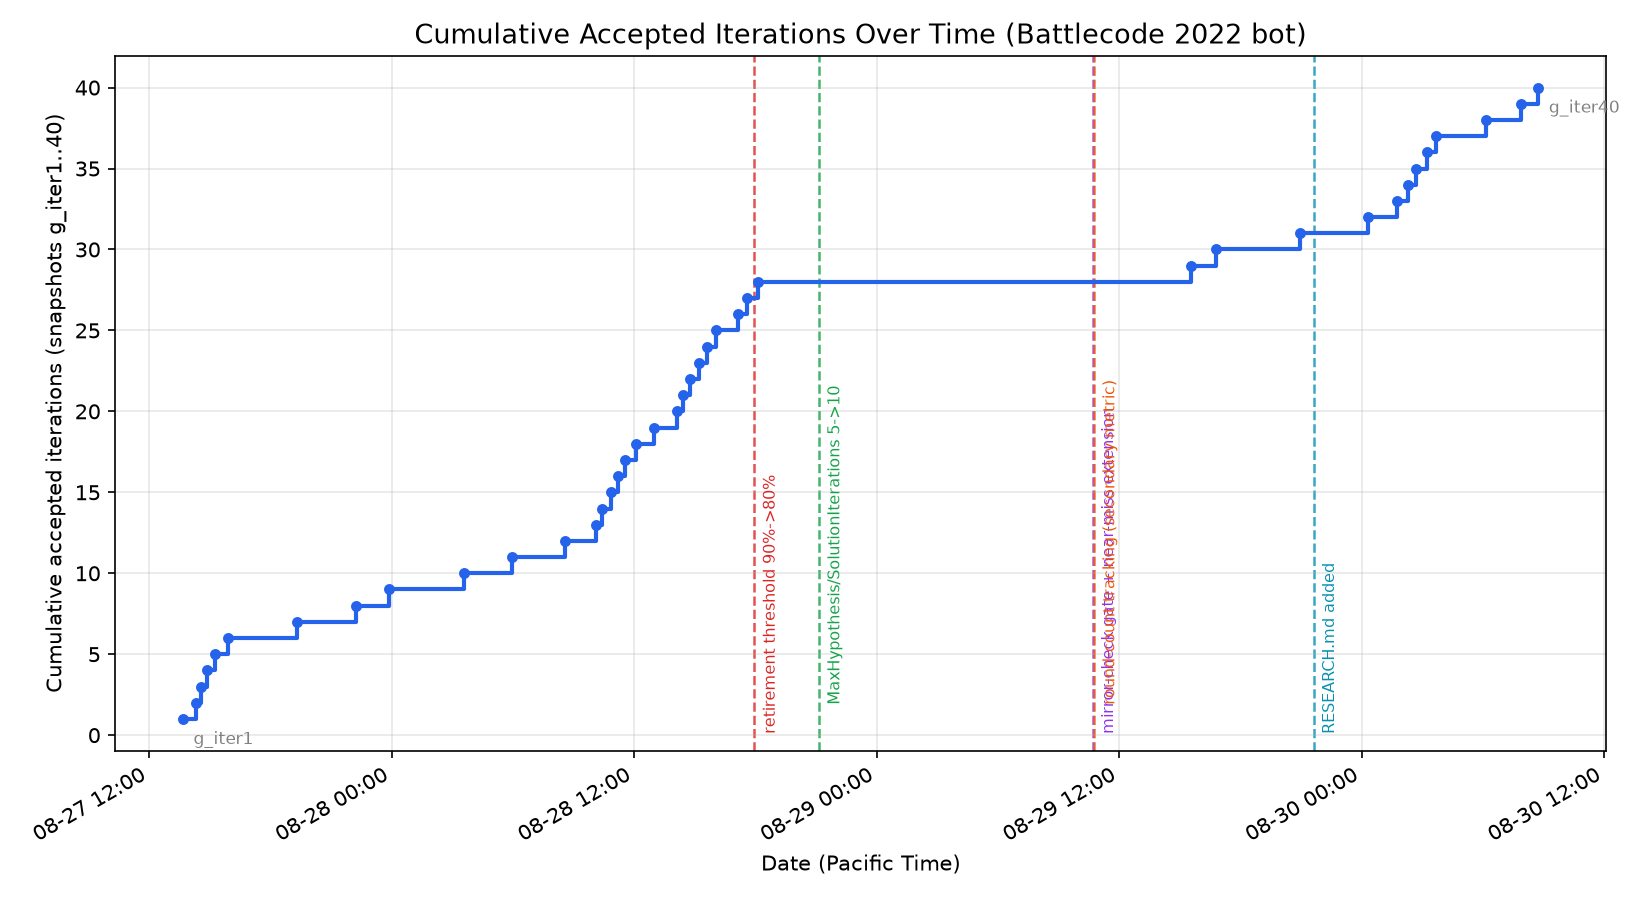
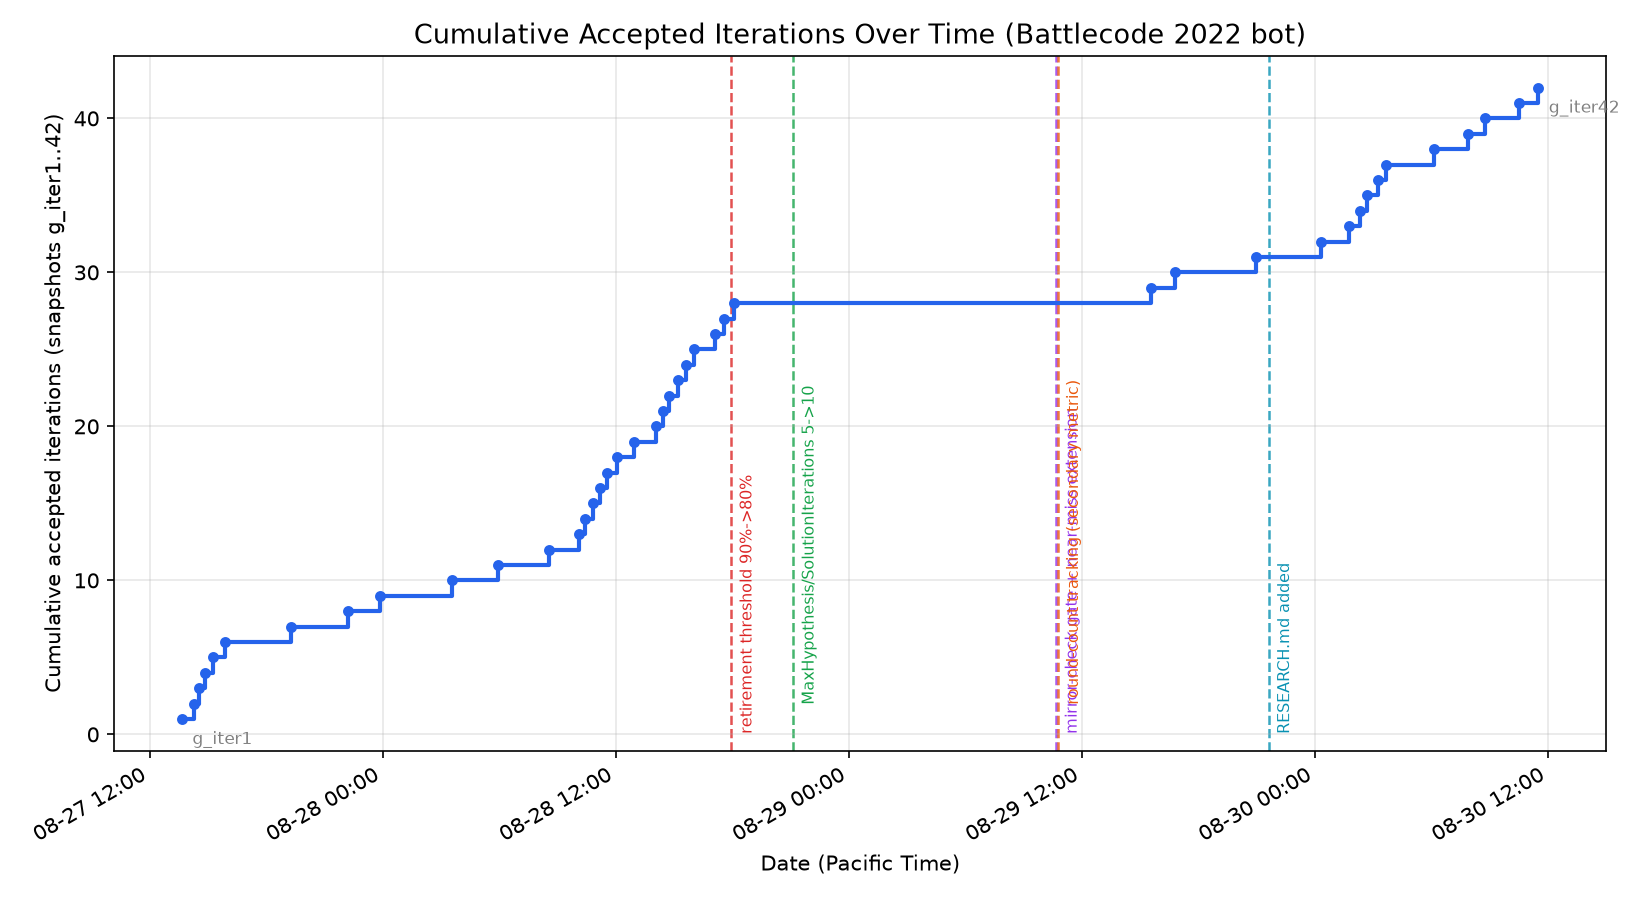
Refresh progress chart: 42 accepted iterations (g_iter42), 5 new since last update

diff --git a/TRAINING_LOG.md b/TRAINING_LOG.md
@@ -7453,7 +7453,7 @@ bookkeeping needed). Updated periodically, not every iteration.
 
 ![cumulative accepted iterations](progress/cumulative_iterations.png)
 
-As of `g_iter40`: 40 accepted iterations (of 92 attempted) spanning
+As of `g_iter42`: 42 accepted iterations (of 94 attempted) spanning
 2026-08-27 through 2026-08-30.
 
 ### Diagnostic note — Iteration 92's Builder-flee limit confirmed one more layer deeper
